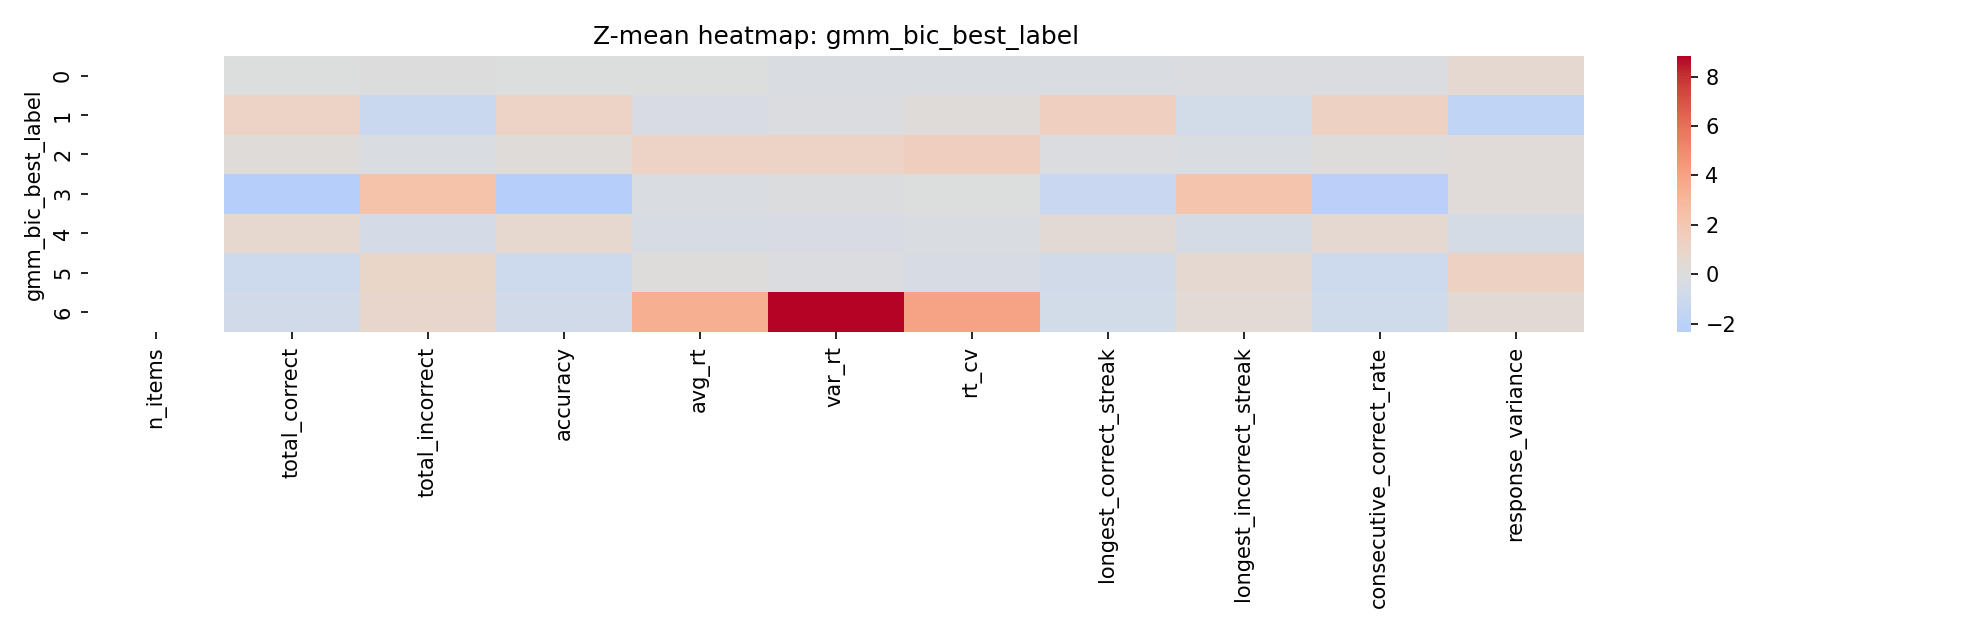
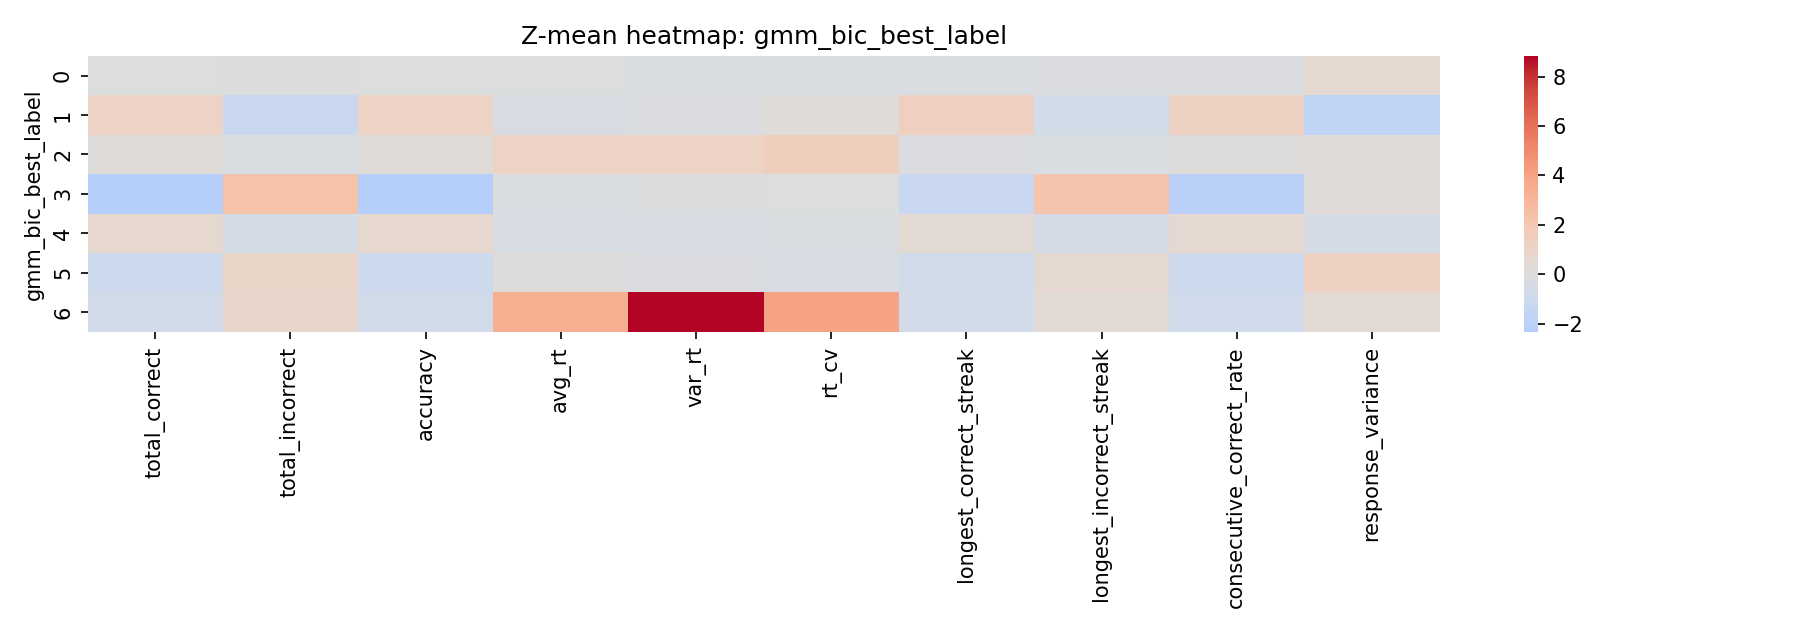
added analysis for finding meaning of each cluster

diff --git a/cluster_knowledge_trajectories.py b/cluster_knowledge_trajectories.py
@@ -15,6 +15,7 @@ from sklearn.neighbors import NearestNeighbors
 
 import matplotlib.pyplot as plt
 import seaborn as sns
+from pandas.plotting import parallel_coordinates
 
 warnings.filterwarnings("ignore")
 
@@ -174,8 +175,84 @@ def _save_line_plot(df: pd.DataFrame, x_col: str, y_col: str, title: str, out_pa
     plt.savefig(out_path, dpi=150)
     plt.close()
 
+def _save_radar_all_clusters(feats: pd.DataFrame, feature_cols: list, labels: np.ndarray, out_path: Path, label_name: str = "cluster"):
+    df = feats.copy()
+    df[label_name] = labels
+    # Drop constant features (e.g., n_items) from visualization
+    feature_cols = [c for c in feature_cols if (c != "n_items") and (df[c].nunique() > 1)]
+    mu = df[feature_cols].mean()
+    sd = df[feature_cols].std(ddof=0).replace(0, np.nan)
+    z = (df[feature_cols] - mu) / sd
+    zmean = z.join(df[label_name]).groupby(label_name)[feature_cols].mean().sort_index()
+    cats = feature_cols
+    N = len(cats)
+    angles = np.linspace(0, 2 * np.pi, N, endpoint=False).tolist()
+    angles += angles[:1]
+    plt.figure(figsize=(9, 7))
+    ax = plt.subplot(111, polar=True)
+    palette = sns.color_palette("tab10", n_colors=len(zmean))
+    for i, k in enumerate(zmean.index.tolist()):
+        vals = zmean.loc[k, :].to_numpy().astype(float)
+        vals = np.clip(vals, -3.0, 3.0)
+        vals = vals.tolist() + [vals[0]]
+        ax.plot(angles, vals, color=palette[i], linewidth=2, label=str(k))
+        ax.fill(angles, vals, color=palette[i], alpha=0.08)
+    ax.set_xticks(angles[:-1])
+    ax.set_xticklabels(cats)
+    ax.set_yticks([-3, -1.5, 0, 1.5, 3])
+    ax.set_ylim(-3, 3)
+    ax.set_title("Cluster z-mean radar (GMM BIC)")
+    ax.legend(title="Cluster", bbox_to_anchor=(1.05, 1), loc="upper left")
+    plt.tight_layout()
+    out_path.parent.mkdir(parents=True, exist_ok=True)
+    plt.savefig(out_path, dpi=150)
+    plt.close()
+
+def _save_feature_boxplots(feats: pd.DataFrame, feature_cols: list, labels: np.ndarray, label_name: str, out_dir: Path):
+    df = feats.copy()
+    df[label_name] = labels
+    out_dir.mkdir(parents=True, exist_ok=True)
+    # Drop constant features (e.g., n_items) from visualization
+    feature_cols = [c for c in feature_cols if (c != "n_items") and (df[c].nunique() > 1)]
+    for col in feature_cols:
+        plt.figure(figsize=(8, 5))
+        sns.boxplot(data=df, x=label_name, y=col, showfliers=False)
+        sns.stripplot(data=df, x=label_name, y=col, size=2, color="black", alpha=0.2)
+        plt.title(f"{col} by {label_name}")
+        plt.tight_layout()
+        plt.savefig(out_dir / f"{col}_by_{label_name}.png", dpi=150)
+        plt.close()
+
+def _save_parallel_coordinates(feats: pd.DataFrame, feature_cols: list, labels: np.ndarray, out_path: Path, label_name: str = "cluster"):
+    df = feats.copy()
+    df[label_name] = labels
+    mu = df[feature_cols].mean()
+    sd = df[feature_cols].std(ddof=0).replace(0, np.nan)
+    z = (df[feature_cols] - mu) / sd
+    plot_df = z.copy()
+    plot_df[label_name] = df[label_name].astype(str)
+    plt.figure(figsize=(12, 6))
+    ax = plt.gca()
+    parallel_coordinates(plot_df, class_column=label_name, cols=feature_cols, ax=ax, color=sns.color_palette("tab10"))
+    for ln in ax.lines:
+        ln.set_alpha(0.12)
+    # Overlay cluster medians for clarity
+    med = plot_df.groupby(label_name)[feature_cols].median().sort_index()
+    palette = sns.color_palette("tab10", n_colors=len(med))
+    angles = np.arange(len(feature_cols))
+    for i, (k, row) in enumerate(med.iterrows()):
+        ax.plot(angles, row.values, color=palette[i], linewidth=2.5)
+    ax.set_title("Parallel coordinates (z-scored), with cluster medians")
+    ax.legend(loc="upper right", bbox_to_anchor=(1.15, 1))
+    plt.tight_layout()
+    out_path.parent.mkdir(parents=True, exist_ok=True)
+    plt.savefig(out_path, dpi=150)
+    plt.close()
+
 
 def _save_zmean_heatmap(df: pd.DataFrame, feature_cols: list, cluster_col: str, title: str, out_path: Path):
+    # Drop constant features (e.g., n_items) from visualization
+    feature_cols = [c for c in feature_cols if (c != "n_items") and (df[c].nunique() > 1)]
     mu = df[feature_cols].mean()
     sd = df[feature_cols].std(ddof=0).replace(0, np.nan)
     z = (df[feature_cols] - mu) / sd
@@ -203,6 +280,47 @@ def _save_cluster_profiles(feats: pd.DataFrame, feature_cols: list, labels: np.n
     zmeans = ((means - mu) / sd)
     zmeans.to_csv(profiles_dir / f"{label_name}_feature_zmeans.csv")
     _save_zmean_heatmap(df, feature_cols, label_name, f"Z-mean heatmap: {label_name}", figures_dir / f"{label_name}_zmean_heatmap.png")
+
+def _save_gmm_bic_composite(feats: pd.DataFrame, feature_cols: list, labels: np.ndarray, X: np.ndarray, out_path: Path):
+    df = feats.copy()
+    df["cluster"] = labels
+    # Drop constant features (e.g., n_items) from visualization
+    feature_cols = [c for c in feature_cols if (c != "n_items") and (df[c].nunique() > 1)]
+    # Z-mean profiles
+    mu = df[feature_cols].mean()
+    sd = df[feature_cols].std(ddof=0).replace(0, np.nan)
+    z = (df[feature_cols] - mu) / sd
+    zmean = z.join(df["cluster"]).groupby("cluster")[feature_cols].mean().sort_index()
+    # Counts
+    counts = df["cluster"].value_counts().sort_index()
+    # PCA projection
+    if X.shape[1] > 2:
+        pca = PCA(n_components=2, random_state=42)
+        X2 = pca.fit_transform(X)
+    else:
+        X2 = X
+    # Figure layout
+    plt.figure(figsize=(14, 8))
+    gs = plt.GridSpec(2, 2, width_ratios=[1.1, 1.6], height_ratios=[2.0, 1.0])
+    ax_heat = plt.subplot(gs[0, 0])
+    sns.heatmap(zmean, cmap="coolwarm", center=0, annot=False, cbar=True, ax=ax_heat)
+    ax_heat.set_title("GMM (BIC) z-mean feature profiles")
+    ax_bar = plt.subplot(gs[1, 0])
+    ax_bar.bar(counts.index.astype(str), counts.values, color="#69b3a2")
+    ax_bar.set_title("Cluster sizes")
+    ax_bar.set_xlabel("Cluster")
+    ax_bar.set_ylabel("Count")
+    ax_sc = plt.subplot(gs[:, 1])
+    sc = ax_sc.scatter(X2[:, 0], X2[:, 1], c=labels, cmap="tab10", s=25)
+    ax_sc.set_title("PCA scatter by cluster (GMM BIC)")
+    ax_sc.set_xlabel("PC1")
+    ax_sc.set_ylabel("PC2")
+    handles, _ = sc.legend_elements(prop="colors", alpha=0.6)
+    ax_sc.legend(handles, [str(i) for i in sorted(counts.index)], title="Cluster", bbox_to_anchor=(1.02, 1), loc="upper left")
+    plt.tight_layout()
+    out_path.parent.mkdir(parents=True, exist_ok=True)
+    plt.savefig(out_path, dpi=150)
+    plt.close()
 
 def _save_line_plot_hue(df: pd.DataFrame, x_col: str, y_col: str, hue_col: str, title: str, out_path: Path):
     plt.figure(figsize=(7.5, 5.0))
@@ -727,6 +845,40 @@ def main():
             "gmm_bic_best_label",
             out_dir / "profiles",
             figures_dir,
+        )
+    except Exception:
+        pass
+
+    # Composite summary figure: heatmap + sizes + PCA scatter
+    try:
+        _save_gmm_bic_composite(
+            feats,
+            feature_cols,
+            gmm_bic_best_labels,
+            Xs,
+            figures_dir / "gmm_bic_cluster_summary.png",
+        )
+    except Exception:
+        pass
+
+    # Additional interpretability visuals for GMM BIC clusters
+    try:
+        _save_radar_all_clusters(
+            feats,
+            feature_cols,
+            gmm_bic_best_labels,
+            figures_dir / "gmm_bic_radar_all.png",
+            label_name="gmm_bic_best_label",
+        )
+    except Exception:
+        pass
+    try:
+        _save_feature_boxplots(
+            feats,
+            feature_cols,
+            gmm_bic_best_labels,
+            label_name="gmm_bic_best_label",
+            out_dir=figures_dir / "boxplots",
         )
     except Exception:
         pass
